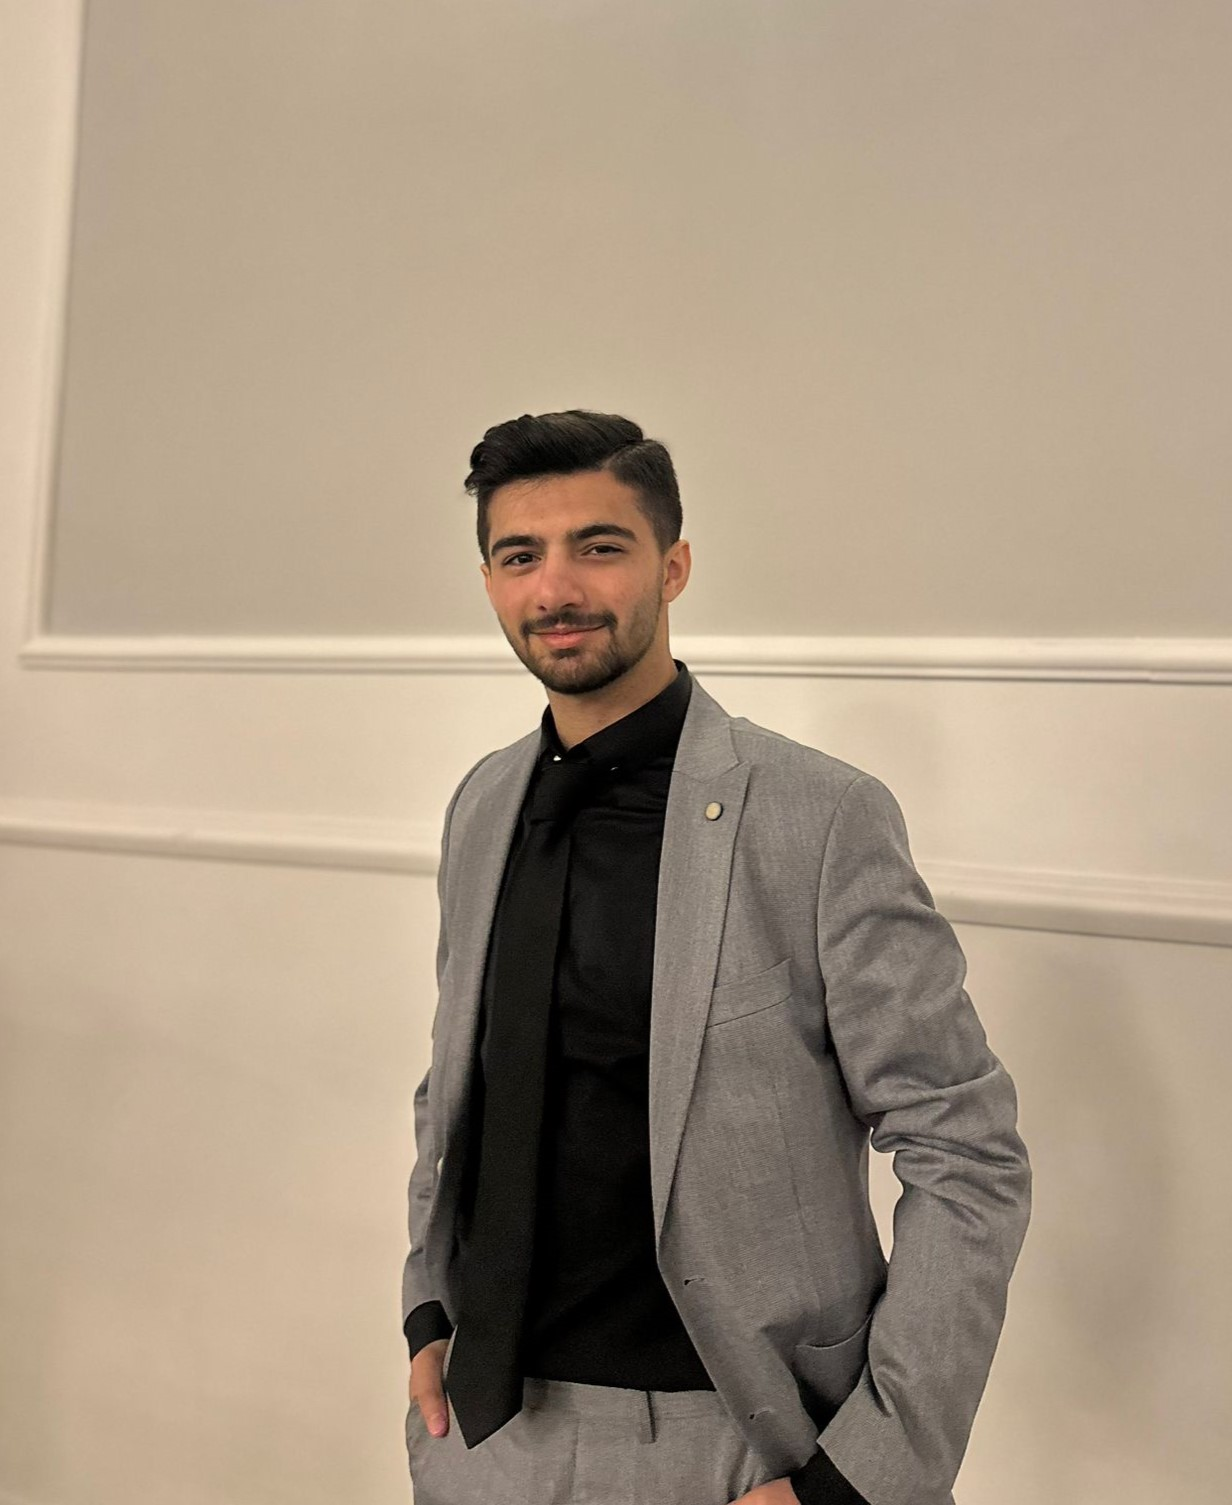
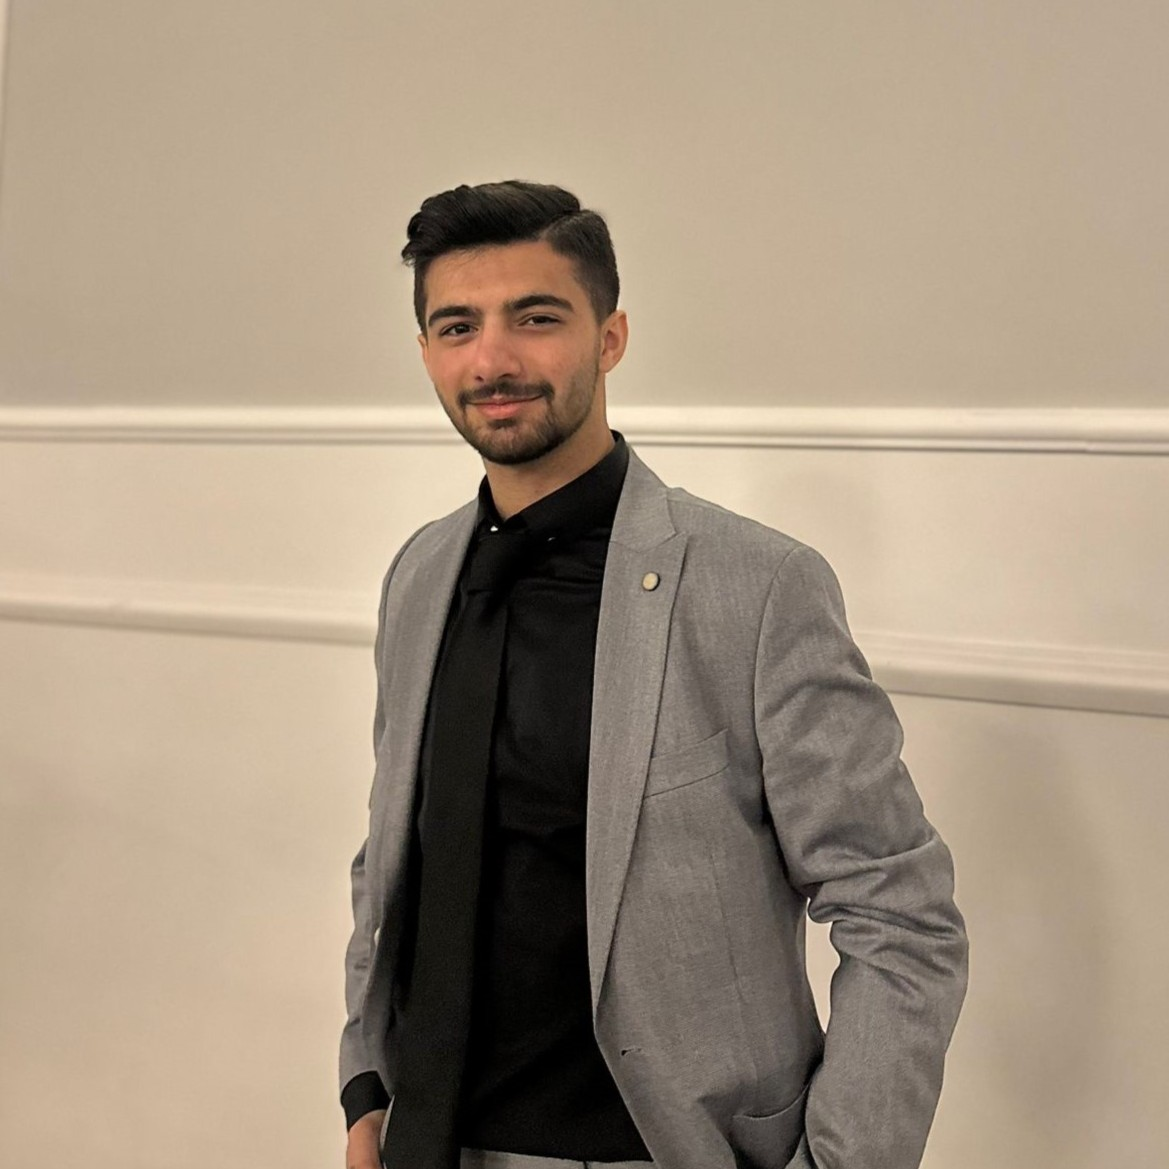
files edited

Changed region(s): [[0.0, 0.0, 1.0, 1.0], [0.4003, 0.7699, 0.4311, 0.8007]]

diff --git a/my-portfolio/src/components/MainSection.js b/my-portfolio/src/components/MainSection.js
@@ -1,7 +1,8 @@
 // src/components/MainSection.jsx
 import React from 'react';
 import '../styles/MainSection.css';
-import image from '../images/image.jpg'; // Örnek görsel ekleyebilirsin
+import '../App.css'; 
+import image from '../images/image.jpg'; 
 
 const MainSection = () => {
   return (
@@ -12,7 +13,7 @@ const MainSection = () => {
 
       </div>
       <div className="main-image">
-        <img src={image} alt="Main" />
+        <img  src={image} alt="Main" className="spinning-image" />
       </div>
 
     </section>

diff --git a/my-portfolio/src/App.js b/my-portfolio/src/App.js
@@ -4,6 +4,8 @@ import './App.css';
 import Header from './components/Header';
 import MainSection from './components/MainSection';
 import About from './components/About';
+import Social from './components/Social';
+
 /*import Blog from './components/Blog';
 import Contact from './components/Contact';
 import Footer from './components/Footer';*/
@@ -14,6 +16,7 @@ function App() {
       <Header />
       <MainSection />
       <About />
+      <Social />
       {/* <Blog /> */}
       {/* <Contact /> */}
       {/* <Footer /> */}

diff --git a/my-portfolio/src/styles/MainSection.css b/my-portfolio/src/styles/MainSection.css
@@ -6,12 +6,14 @@
   padding: 100px 400px;
   background-color: #0e0e0e;
   color: white;
-  gap: 30px;
+  gap: 60px;
 }
 
 .intro-text {
   width: 50%;
- margin-left: 10%;
+ margin-left: 10px;
+  text-align: left;
+ font-size: 18px;
 }
 .intro-text h1 {
   font-size: 48px;
@@ -23,8 +25,8 @@
 }
 
 .main-image img {
-
   width: 100%;
   height: auto;
-  border-radius: 40px;
+  border-radius: 100%;
 }
+
